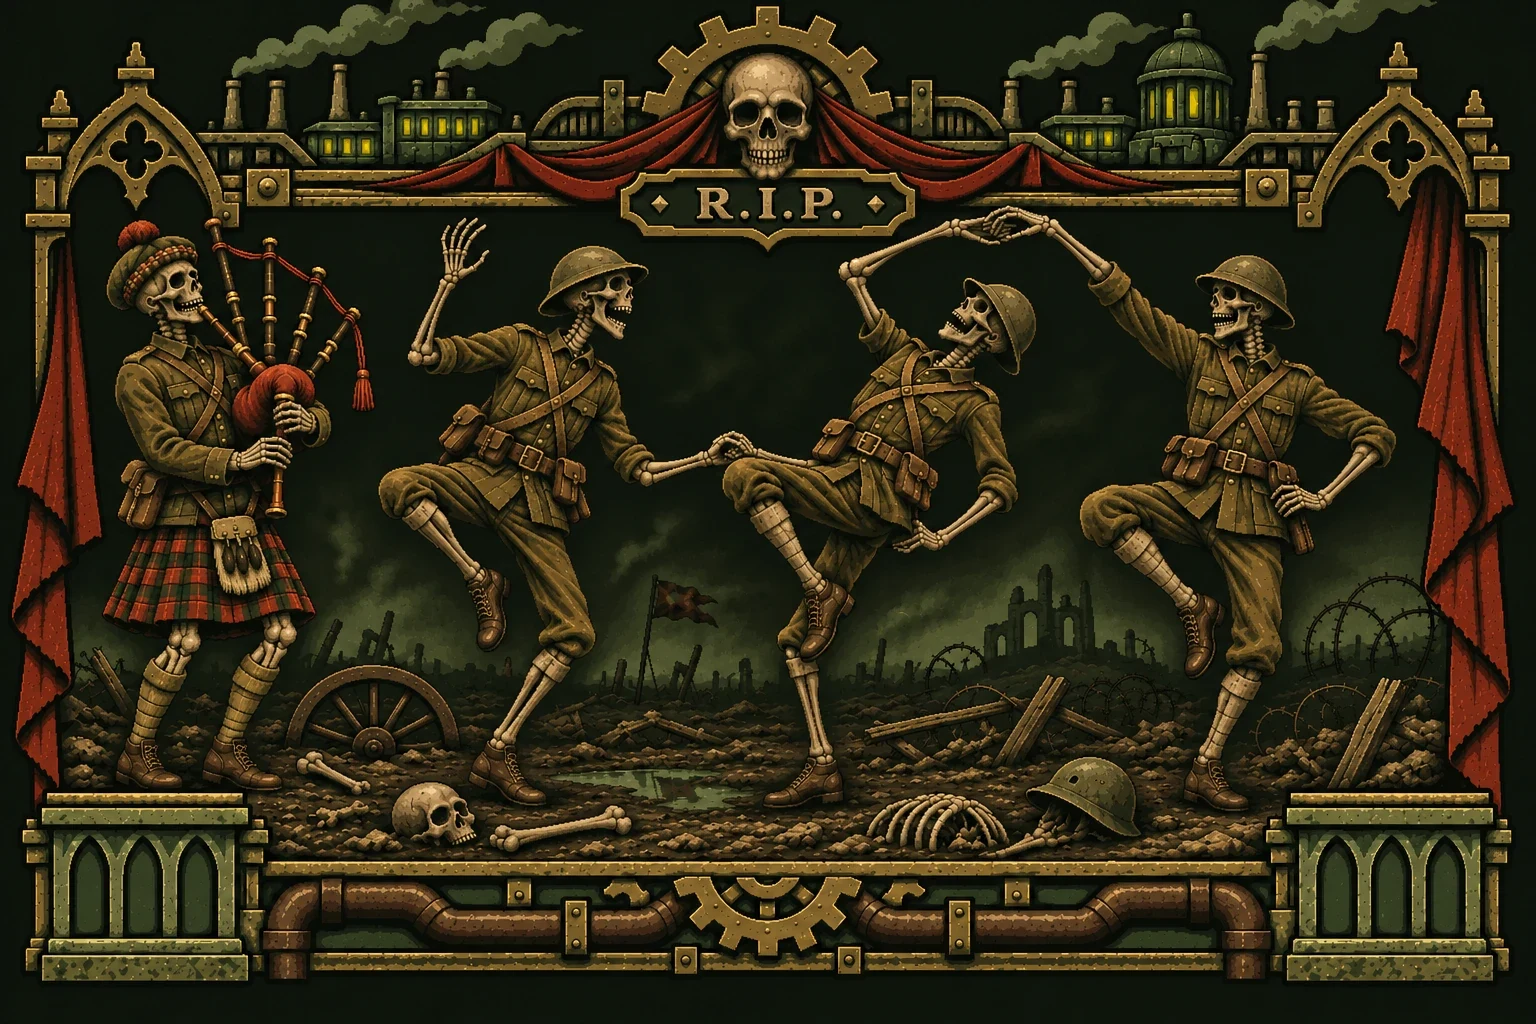
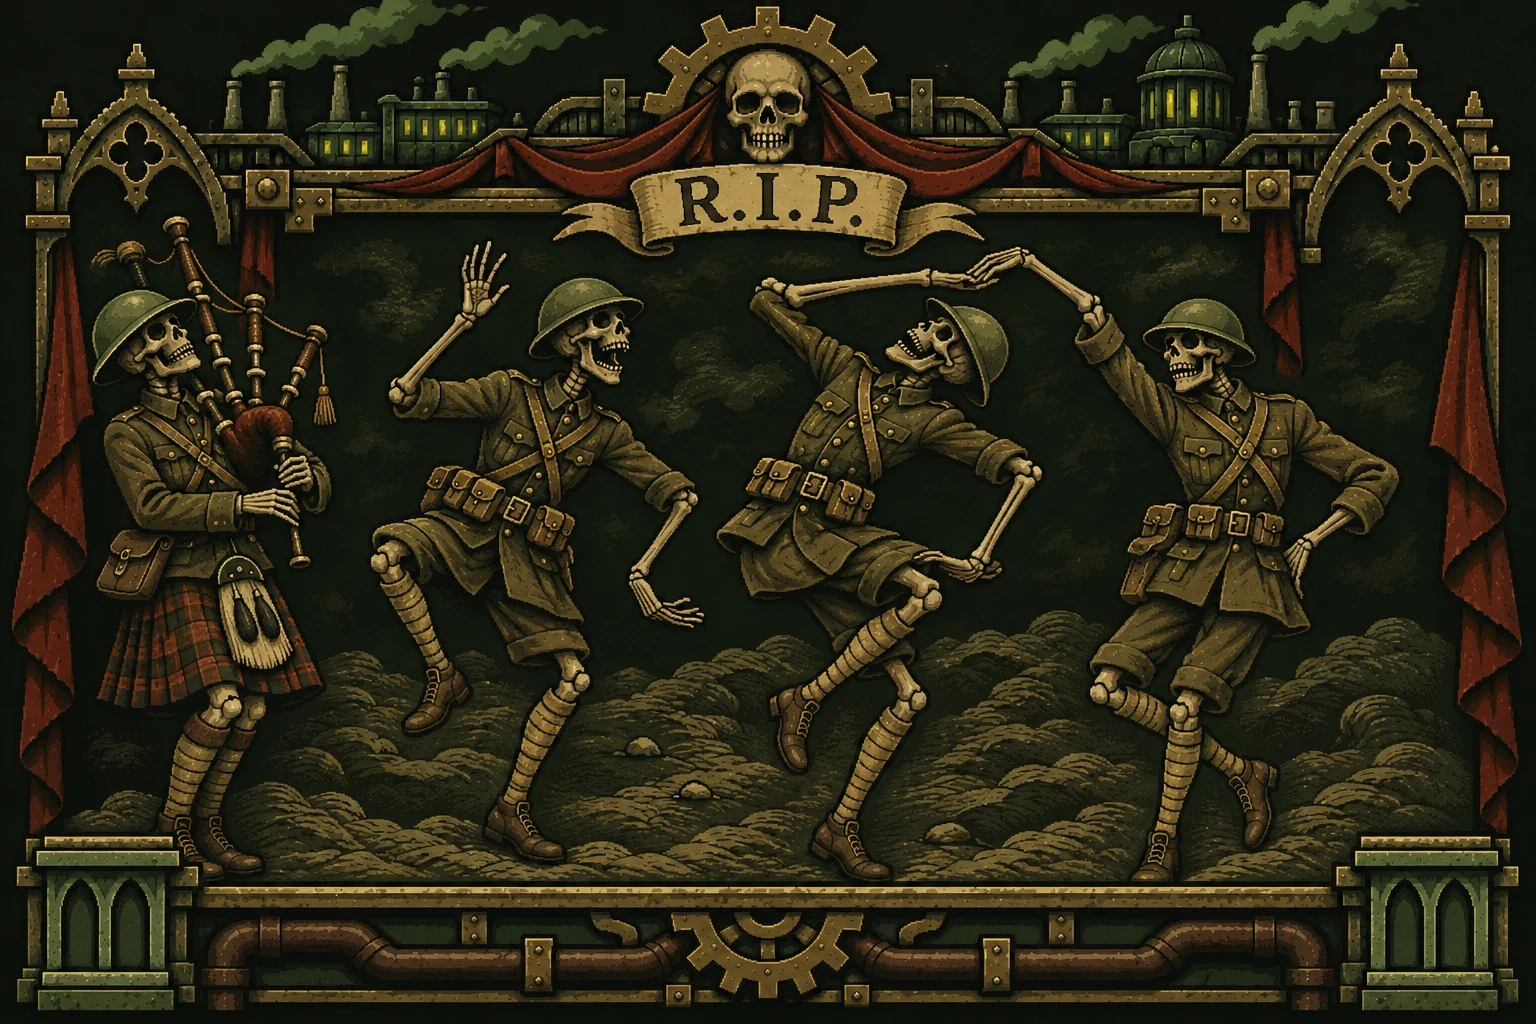
Экран смерти: новая пляска смерти, фон экрана в цвет картинки
Claude-Session: https://claude.ai/code/session_01MqgnyUEpRywLJ1z1i4AL5D

diff --git a/src/style.css b/src/style.css
@@ -110,7 +110,7 @@ body { font-family: 'Old Standard TT', Georgia, serif; color: var(--text); }
 }
 #screen:empty { display: none; }
 /* смерть: надгробие со скелетом-солдатом и подпись */
-#screen.death { background: #000; animation: deathIn 1.2s ease-out; }
+#screen.death { background: #0d120b; animation: deathIn 1.2s ease-out; } /* в цвет фона картинки — без видимой рамки-прямоугольника */
 #screen.death .scr { max-width: 900px; padding: 0; }
 .death-img { display: block; width: 660px; height: 440px; margin: 0 auto; image-rendering: pixelated; } /* пляска смерти — 3:2, картинка автора */
 .death-cap { font-family: 'Playfair Display SC', 'Old Standard TT', serif; font-size: 22px; letter-spacing: 2px; color: #d8cfa8; margin-top: 6px; text-shadow: 0 0 18px rgba(159, 211, 106, 0.35); }
